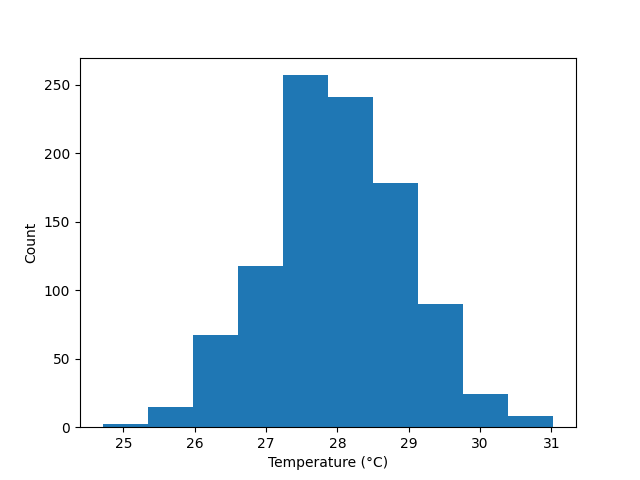
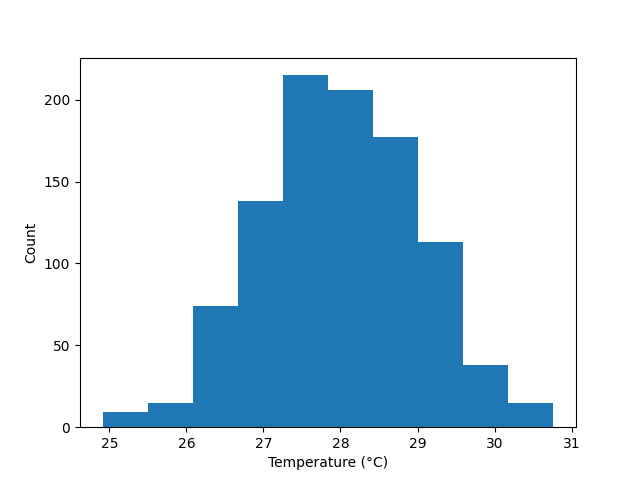
use static images for animation example

diff --git a/docs/examples/plot_animation_example.py b/docs/examples/plot_animation_example.py
@@ -4,6 +4,9 @@ Animation Example
 
 Example description
 
+.. image:: ../examples/example_plots/animation_example.gif
+    :alt: GIF of a normal distribution with increasing sample size
+
 """
 from gerg_plotting.data_classes import Data
 from gerg_plotting.plotting_classes import Histogram, Animator
@@ -11,6 +14,8 @@ import cmocean
 import numpy as np
 import matplotlib.pyplot as plt
 from pathlib import Path
+
+# sphinx_gallery_thumbnail_path = '_static/animation_example_thumb.png'
 
 # Let's make some example data
 n_points = 10000
@@ -32,3 +37,9 @@ colors = [cmap((idx*2)+10) for idx in samples]
 
 gif_filename = Path('example_plots/animation_example.gif')
 Animator().animate(plotting_function=make_hists,param_dict={'sample':samples,'color':colors},fps=12,gif_filename=gif_filename)
+
+# sphinx_gallery_start_ignore
+fig = make_hists(samples[-5],colors[-5])
+fig.savefig('../_static/animation_example_thumb.png',dpi=100)
+plt.close(fig)
+# sphinx_gallery_end_ignore

diff --git a/docs/examples/plot_scatter_plot_example.py b/docs/examples/plot_scatter_plot_example.py
@@ -11,6 +11,9 @@ from gerg_plotting.tools import data_from_csv
 # Let's read in the example data
 data = data_from_csv('example_data/sample_glider_data.csv')
 
+# Let's subsample the dataset
+data = data[::50]
+
 scatter = ScatterPlot(data)
 scatter.scatter('time','temperature')
 scatter.save('example_plots/scatter_plot_example.png')
